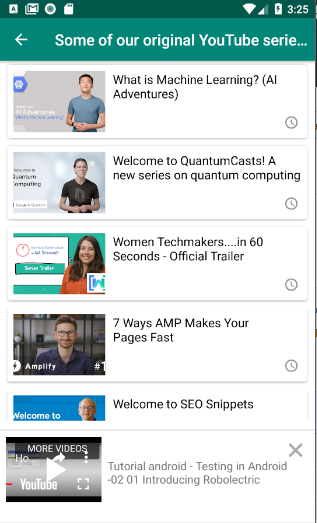
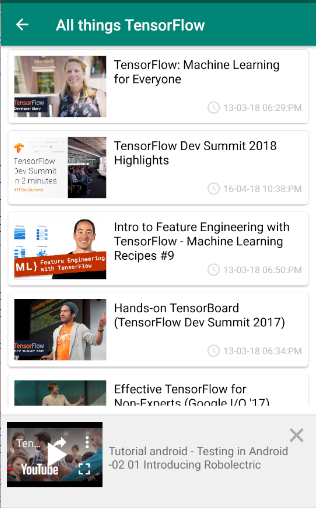
v1.4

diff --git a/ytplayer/src/main/java/com/ytplayer/util/SizeUtil.java b/ytplayer/src/main/java/com/ytplayer/util/SizeUtil.java
@@ -4,6 +4,11 @@ import android.app.Activity;
 import android.content.res.Resources;
 import android.util.DisplayMetrics;
 
+import java.text.ParseException;
+import java.text.SimpleDateFormat;
+import java.util.Date;
+import java.util.Locale;
+
 public class SizeUtil {
     private static final String IMG_HEIGHT_SIZE_TAG_1 = "height=\"";
     private static final String IMG_WIDTH_SIZE_TAG_1 = "width=\"";
@@ -15,21 +20,35 @@ public class SizeUtil {
         context.getWindowManager().getDefaultDisplay().getMetrics(displaymetrics);
         int screenWidth = displaymetrics.widthPixels;
         int screenHeight = displaymetrics.heightPixels;
-        return new int[]{screenWidth,screenHeight};
+        return new int[]{screenWidth, screenHeight};
     }
 
     public static int dpToPx(int dp) throws Exception {
         return (int) (dp * Resources.getSystem().getDisplayMetrics().density);
     }
 
-    public static int pxToDp(int px)  throws Exception{
+    public static int pxToDp(int px) throws Exception {
         return (int) (px / Resources.getSystem().getDisplayMetrics().density);
     }
 
 
+    public static String formatDate(String date) {
+        SimpleDateFormat input = new SimpleDateFormat("yyyy-MM-dd'T'HH:mm:ss.SSS'Z'", Locale.getDefault());
+        SimpleDateFormat output = new SimpleDateFormat("dd-MM-yy hh:mm:a", Locale.getDefault());
+
+        try {
+            Date d = input.parse(date);
+            return output.format(d);
+
+        } catch (ParseException e) {
+            e.printStackTrace();
+            return " ";
+        }
+    }
+
     public static int[] getWidthAndHeight(String source) throws Exception {
-        String height = null,width = null;
-        if(source.contains(IMG_HEIGHT_SIZE_TAG_1)){
+        String height = null, width = null;
+        if (source.contains(IMG_HEIGHT_SIZE_TAG_1)) {
             height = source.substring(source.indexOf(IMG_HEIGHT_SIZE_TAG_1));
             height = height.substring(IMG_HEIGHT_SIZE_TAG_1.length());
             height = height.substring(0, height.indexOf("\""));
@@ -37,7 +56,7 @@ public class SizeUtil {
             width = source.substring(source.indexOf(IMG_WIDTH_SIZE_TAG_1));
             width = width.substring(IMG_WIDTH_SIZE_TAG_1.length());
             width = width.substring(0, width.indexOf("\""));
-        }else if(source.contains("height:")){
+        } else if (source.contains("height:")) {
             height = source.substring(source.indexOf(IMG_HEIGHT_SIZE_TAG_2));
             height = height.substring(IMG_HEIGHT_SIZE_TAG_2.length());
             height = height.substring(0, height.indexOf("px"));
@@ -50,7 +69,7 @@ public class SizeUtil {
         int imgWidth = SizeUtil.dpToPx(Integer.parseInt(width));
         int imgHeight = SizeUtil.dpToPx(Integer.parseInt(height));
 
-        return new int[]{imgWidth,imgHeight};
+        return new int[]{imgWidth, imgHeight};
     }
 
 }

diff --git a/ytplayer/src/main/java/com/ytplayer/adapter/YTVideoAdapter.java b/ytplayer/src/main/java/com/ytplayer/adapter/YTVideoAdapter.java
@@ -16,6 +16,7 @@ import com.google.android.youtube.player.YouTubeInitializationResult;
 import com.google.android.youtube.player.YouTubeThumbnailLoader;
 import com.google.android.youtube.player.YouTubeThumbnailView;
 import com.ytplayer.R;
+import com.ytplayer.util.SizeUtil;
 
 import java.util.ArrayList;
 
@@ -61,7 +62,12 @@ public class YTVideoAdapter extends RecyclerView.Adapter<YTVideoAdapter.YoutubeV
             holder.videoDuration.setVisibility(View.VISIBLE);
             holder.videoDuration.setText(item.getDuration());
         } else {
-            holder.videoDuration.setVisibility(View.GONE);
+            if (!TextUtils.isEmpty(item.getPublishedAt())) {
+                holder.videoDuration.setVisibility(View.VISIBLE);
+                holder.videoDuration.setText(SizeUtil.formatDate(item.getPublishedAt()));
+            }else {
+                holder.videoDuration.setVisibility(View.GONE);
+            }
         }
 
         if (item.getImage() == null) {

diff --git a/ytplayer/src/main/java/com/ytplayer/activity/YTBaseActivity.java b/ytplayer/src/main/java/com/ytplayer/activity/YTBaseActivity.java
@@ -4,6 +4,7 @@ import android.graphics.Color;
 import android.os.Bundle;
 import android.os.Handler;
 import android.os.PersistableBundle;
+import android.support.v4.content.ContextCompat;
 import android.text.TextUtils;
 import android.util.Log;
 import android.view.View;
@@ -274,7 +275,8 @@ public abstract class YTBaseActivity extends YouTubeBaseActivity implements YouT
             youTubePlayer.pause();
             currentState = SlidingUpPanelLayout.PanelState.COLLAPSED;
             slidingLayout.setShadowHeight(10);
-            dragView.setBackgroundColor(Color.WHITE);
+//            dragView.setBackgroundColor(Color.WHITE);
+            dragView.setBackgroundColor(Color.parseColor("#F0F0F0"));
             frameLayout.setPadding(0, 0, 0, 350);
         }
     }

diff --git a/ytplayer/src/main/java/com/ytplayer/activity/YoutubePlaylistActivity.java b/ytplayer/src/main/java/com/ytplayer/activity/YoutubePlaylistActivity.java
@@ -167,7 +167,7 @@ public class YoutubePlaylistActivity extends YTBaseActivity {
         protected YTVideoModel doInBackground(String... playlistId) {
 
             String part = "snippet,contentDetails";
-            String maxResults = "25";
+            String maxResults = "50";
             String key = YTConfig.getApiKey();
             String response = ApiCall.GET(YTNetwork.getPlayListItemsByPlayListId
                     , ParamBuilder.getPlayListItems(part, playlistId[0], maxResults, key));

diff --git a/ytplayer/src/main/java/com/ytplayer/network/YTNetwork.java b/ytplayer/src/main/java/com/ytplayer/network/YTNetwork.java
@@ -46,5 +46,11 @@ public interface YTNetwork {
     //Get videos list by multiple videos id:
     String getVideoListByMultipleVideoId = "https://www.googleapis.com/youtube/v3/videos?part=snippet,contentDetails,statistics&id=YxLCwfA1cLw,Qgy6LaO3SB0,7yPJXGO2Dcw&key=";
 
+    /* Params :
+     *    part=statistics
+     *    id=videoId
+     *    key=
+     * */
+    String getVideoStatistics = "https://www.googleapis.com/youtube/v3/videos";
 
 }

diff --git a/ytplayer/src/main/java/com/ytplayer/util/YTNetworkConst.java b/ytplayer/src/main/java/com/ytplayer/util/YTNetworkConst.java
@@ -35,4 +35,6 @@ public interface YTNetworkConst {
     String getVideoListByMultipleVideoId = "https://www.googleapis.com/youtube/v3/videos?part=snippet,contentDetails,statistics&id=YxLCwfA1cLw,Qgy6LaO3SB0,7yPJXGO2Dcw&key=";
 
 
+    String getVideoStatistics = "https://www.googleapis.com/youtube/v3/videos?part=statistics&id={{VIDEO-ID}}&key={{YOUR-KEY}}";
+
 }
